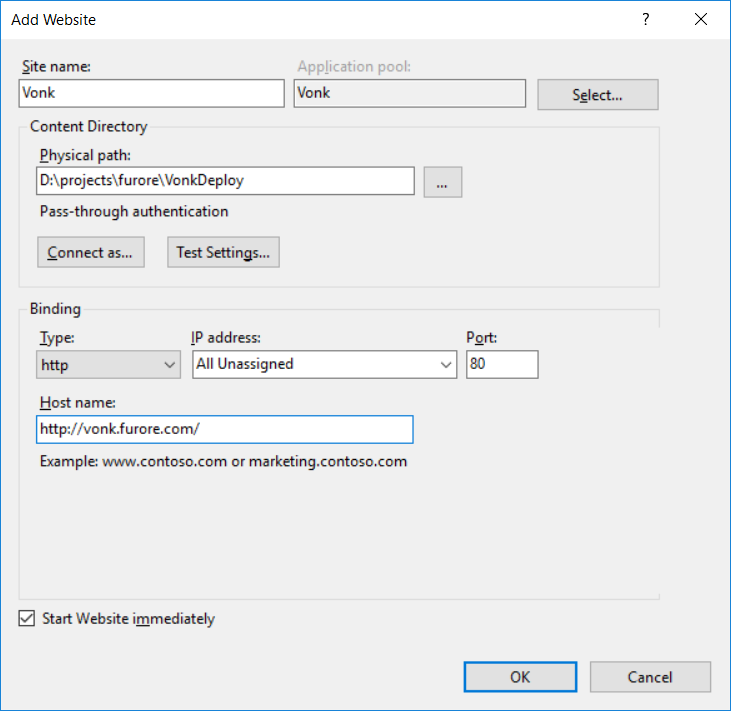
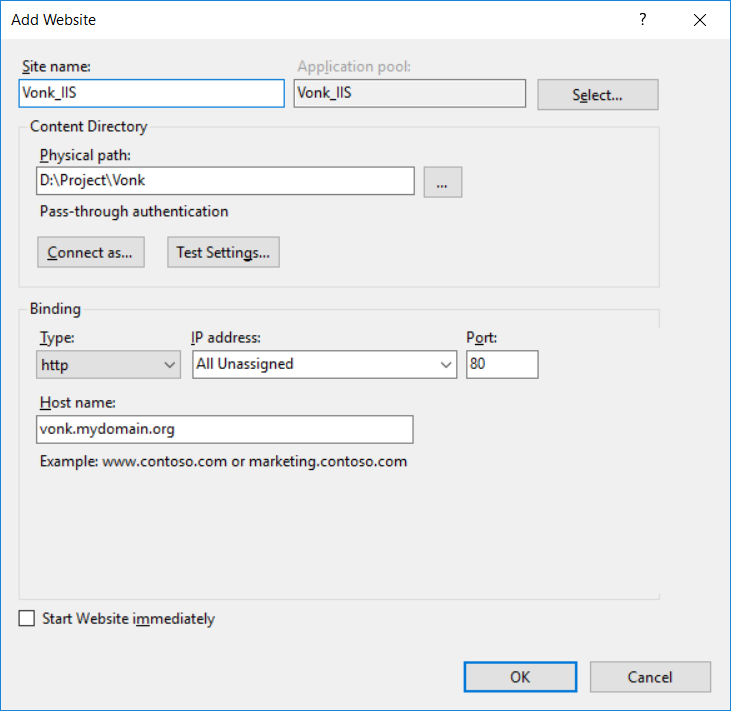
Added IIS settings to keep Vonk running

diff --git a/vonk/deployment/reverseProxy/iis.rst b/vonk/deployment/reverseProxy/iis.rst
@@ -21,7 +21,13 @@ Prerequisites
    .. image:: ../../images/iis_turn_windows_features_on.png
       :align: center   
 
-3. To enable PUT and DELETE interactions, you will have to turn off WebDAV:
+3. In order to have IIS start the Vonk server right away, you will have to enable the "Application
+   Initialization" setting:
+  
+   .. image:: ../../images/iis_enable_application_init.png
+      :align: center      
+   
+4. To enable PUT and DELETE interactions, you will have to turn off WebDAV:
 
    .. image:: ../../images/iis_disable_webdav.png
       :align: center   
@@ -30,15 +36,15 @@ Prerequisites
    some background information. If you do not want to disable WebDAV for all of IIS, you can also disable it just for Vonk
    using a setting in *web.config*, see :ref:`web_config`.
    
-4. Choose a solution to deploy/move the application to the hosting system. 
+5. Choose a solution to deploy/move the application to the hosting system. 
    Multiple alternatives exist like Web Deploy, Xcopy, Robocopy or Powershell. 
    One popular choice is using Web Deploy in Visual Studio. For using that you will need to install 
    Web Deploy on the hosting system. To install Web Deploy, you can use the Web Platform Installer 
    (https://www.microsoft.com/web/downloads/platform.aspx).
 
-5. Install the .NET Core Windows Server Hosting bundle on the hosting system. After installing it, you may need to do a “net stop was /y” and “net start w3svc” to ensure all the changes are picked up for IIS. The bundle installs the .NET Core Runtime, .NET Core Library, and the ASP.NET Core Module. ASP.NET Core Module (ANCM) allows you to run ASP.NET Core applictions using Kestrel behind IIS. For more information about ANCM check https://docs.microsoft.com/en-us/aspnet/core/fundamentals/servers/aspnet-core-module
+6. Install the .NET Core Windows Server Hosting bundle on the hosting system. After installing it, you may need to do a “net stop was /y” and “net start w3svc” to ensure all the changes are picked up for IIS. The bundle installs the .NET Core Runtime, .NET Core Library, and the ASP.NET Core Module. ASP.NET Core Module (ANCM) allows you to run ASP.NET Core applictions using Kestrel behind IIS. For more information about ANCM check https://docs.microsoft.com/en-us/aspnet/core/fundamentals/servers/aspnet-core-module
 
-6. Prepare binaries. You can either download the binaries for Vonk (see :ref:`getting_started`), or create your own solution by building a facade.
+7. Prepare binaries. You can either download the binaries for Vonk (see :ref:`getting_started`), or create your own solution by building a facade.
    If you are deploying a Vonk facade, take the additional following prerequisites into consideration:
    
    - Make sure you use the **IISIntegration NuGet** package. You can install this as part of one of the metapackages (``Microsoft.AspNetCore`` and ``Microsoft.AspNetCore.All``) or independently  ``Microsoft.AspNetCore.Server.IISIntegration``. This is needed for the interoperability between Kestrel and ANCM.
@@ -56,11 +62,24 @@ Create Website in IIS
 .. image:: ../../images/iis_create_website.png
   :align: center
 
-3. Edit the application pool to set the **.NET CLR VERSION** to **NO Managed Code**, similar to the picture below (we use  IIS as a reverse proxy, so it isn’t actually executing any .NET code). To edit the application pool, go to the **Application Pools** panel, right-click the website's app pool and select **Basic Settings...** from the popup menu.
+3. Edit the application pool to set the **.NET CLR VERSION** to **NO Managed Code**, similar to the picture below (we use  IIS as a reverse proxy, so it isn’t actually executing any .NET code). To edit the application pool, go to the **Application Pools** panel, right-click the website's app pool and select **Advanced Settings...** from the popup menu.
 
 .. image:: ../../images/iis_edit_application_pool.png
   :align: center
 
+.. attention::
+   IIS will pauze a website if it is idle for a while. Pauzing a dotnet process is the same as shutting
+   it down, so this means that IIS shuts down the Vonk server. |br| This causes problems with each first request that is sent to Vonk after an idle period. Vonk needs a couple of seconds to start up
+   again, and answers with a ``423 Lock Error`` while it loads.  
+   Make sure to set **Start Mode** to **AlwaysRunning** to prevent IIS from shutting down Vonk.
+
+4. Go to your IIS Sites, and click on your Vonk website. On the right, choose **Advanced settings...**.
+   |br| Set **Preload Enabled** to **True** to make IIS load the Vonk server right away, instead of on
+   the very first request. Otherwise this first request results in a ``423 Lock Error`` as described
+   above.
+
+.. image:: ../../images/iis_enable_preload.png
+  :align: center
 
 .. _web_config:
 
@@ -98,8 +117,14 @@ Configuration
 SQL 
 -------------
 In order to use the Sql Repository option in IIS you should make sure that the identity of the IIS application pool has rights to use the database considering the provided connection string. 
-To change the identity the application pool is using open IIS -> Application Pools -> select your application pool -> right click and select "Advanced Settings..."
+To change the identity the application pool is using open IIS ➡ Application Pools ➡ select your application pool ➡ right click and select "Advanced Settings..."
 You should see something similar to the image below:
 
 .. image:: ../../images/iis_appPool_changeIdentity.png
   :align: center
+
+  
+  
+.. |br| raw:: html
+
+   <br />
